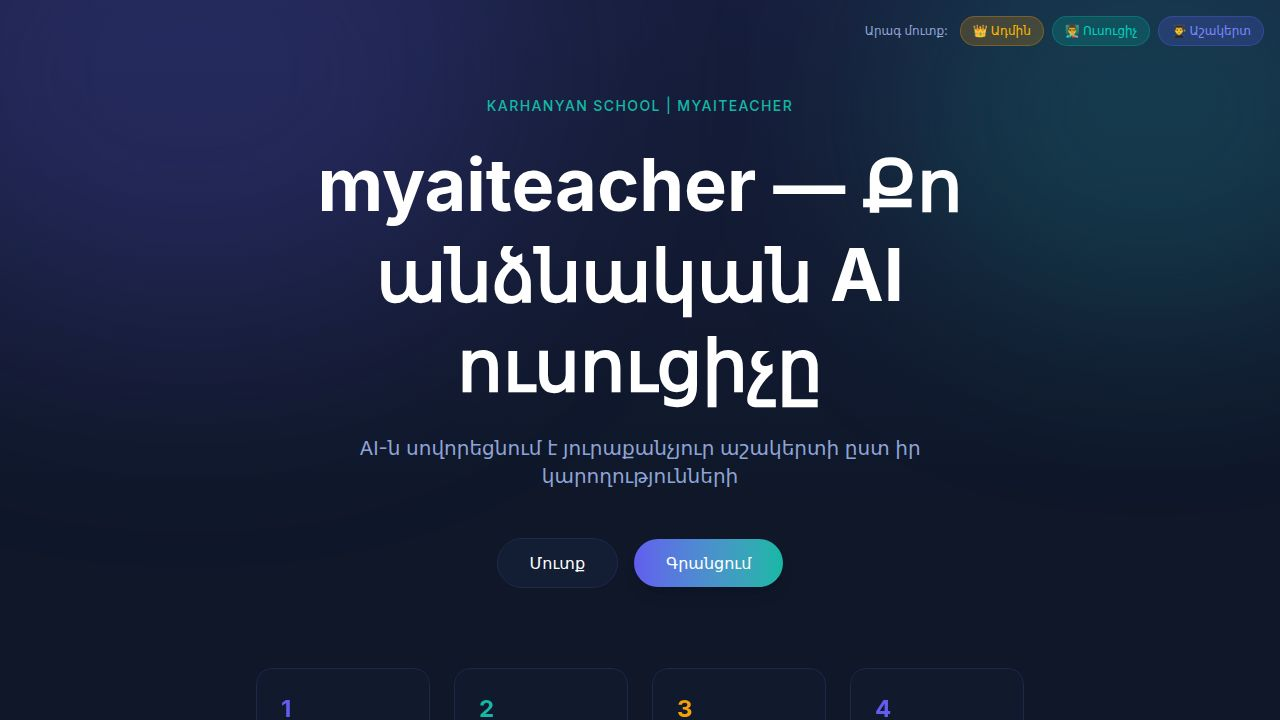
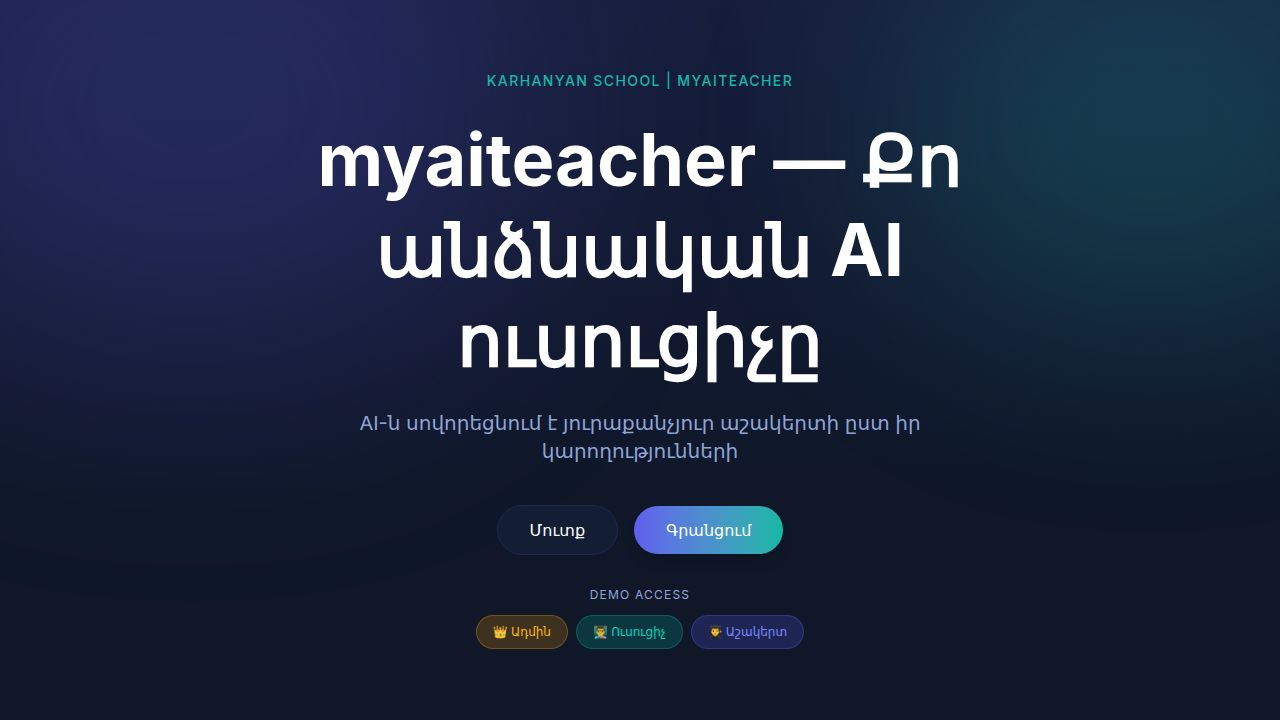
Simplify landing page by removing info cards and relocating demo access buttons
Removes the four-step information section and repositions quick-access login buttons to the "Demo Access" section below the main authentication buttons on the landing page.

Replit-Commit-Author: Agent
Replit-Commit-Session-Id: cca06395-2f13-4d1d-811c-1b9c3f3236e7
Replit-Commit-Checkpoint-Type: full_checkpoint
Replit-Commit-Event-Id: 6aef1b56-d962-4406-9b11-b502ad46bb04
Replit-Commit-Screenshot-Url: https://storage.googleapis.com/screenshot-production-us-central1/5a2ec19b-620a-4535-be1d-970a9317d162/cca06395-2f13-4d1d-811c-1b9c3f3236e7/2Ftedxd
Replit-Helium-Checkpoint-Created: true

diff --git a/artifacts/myaiteacher/src/pages/index.tsx b/artifacts/myaiteacher/src/pages/index.tsx
@@ -23,68 +23,67 @@ export default function Home() {
   };
 
   return (
-    <div className="min-h-[100dvh] w-full flex flex-col items-center pt-24 px-4 bg-background relative overflow-hidden">
-      {/* Quick login buttons top-right */}
-      <div className="absolute top-4 right-4 flex items-center gap-2 z-20">
-        <span className="text-xs text-muted-foreground mr-1">Արագ մուտք:</span>
-        <button onClick={() => quickLogin("admin", "admin123")} className="px-3 py-1.5 rounded-lg text-xs font-medium bg-amber-500/20 border border-amber-500/30 text-amber-400 hover:bg-amber-500/30 transition-colors">
-          👑 Ադմին
-        </button>
-        <button onClick={() => quickLogin("teacher1", "teacher123")} className="px-3 py-1.5 rounded-lg text-xs font-medium bg-teal-500/20 border border-teal-500/30 text-teal-400 hover:bg-teal-500/30 transition-colors">
-          👨🏫 Ուսուցիչ
-        </button>
-        <button onClick={() => quickLogin("student1", "student123")} className="px-3 py-1.5 rounded-lg text-xs font-medium bg-indigo-500/20 border border-indigo-500/30 text-indigo-400 hover:bg-indigo-500/30 transition-colors">
-          👨🎓 Աշակերտ
-        </button>
-      </div>
+    <div className="min-h-[100dvh] w-full flex flex-col items-center justify-center px-4 bg-background relative overflow-hidden">
 
       {/* Decorative background effects */}
       <div className="absolute top-0 left-0 w-full h-[500px] bg-gradient-to-b from-primary/10 to-transparent pointer-events-none" />
       <div className="absolute top-[-20%] left-[-10%] w-[50%] h-[500px] bg-primary/20 blur-[120px] rounded-full pointer-events-none" />
       <div className="absolute top-[-10%] right-[-10%] w-[40%] h-[400px] bg-secondary/20 blur-[100px] rounded-full pointer-events-none" />
 
-      <div className="z-10 text-center max-w-3xl">
-        <h2 className="text-secondary font-medium tracking-wide mb-6 uppercase tracking-widest text-sm">
+      <div className="z-10 text-center max-w-2xl w-full">
+        <h2 className="text-secondary font-medium tracking-widest mb-6 uppercase text-sm">
           Karhanyan School | myaiteacher
         </h2>
-        
+
         <h1 className="text-5xl md:text-7xl font-bold text-white mb-6 leading-tight">
           myaiteacher — Քո անձնական AI ուսուցիչը
         </h1>
-        
-        <p className="text-xl text-muted-foreground mb-12 max-w-2xl mx-auto">
+
+        <p className="text-xl text-muted-foreground mb-10 max-w-xl mx-auto">
           AI-ն սովորեցնում է յուրաքանչյուր աշակերտի ըստ իր կարողությունների
         </p>
 
-        <div className="flex items-center justify-center gap-4 mb-20">
-          <Link href="/login" className="px-8 py-3 rounded-full font-medium transition-all bg-card border border-card-border hover:bg-muted text-white">
+        {/* Primary auth buttons */}
+        <div className="flex items-center justify-center gap-4 mb-8">
+          <Link
+            href="/login"
+            className="px-8 py-3 rounded-full font-medium transition-all bg-card border border-card-border hover:bg-muted text-white"
+          >
             Մուտք
           </Link>
-          <Link href="/register" className="px-8 py-3 rounded-full font-medium transition-all bg-gradient-to-r from-primary to-secondary text-white shadow-lg hover:shadow-primary/25 hover:scale-105">
+          <Link
+            href="/register"
+            className="px-8 py-3 rounded-full font-medium transition-all bg-gradient-to-r from-primary to-secondary text-white shadow-lg hover:shadow-primary/25 hover:scale-105"
+          >
             Գրանցում
           </Link>
         </div>
 
-        <div className="grid grid-cols-1 md:grid-cols-4 gap-6 text-left">
-          <div className="p-6 rounded-2xl bg-card/40 backdrop-blur-md border border-card-border">
-            <div className="text-primary text-2xl font-bold mb-2">1</div>
-            <h3 className="font-semibold text-white mb-2">Դասեր</h3>
-            <p className="text-sm text-muted-foreground">Անհատականացված նյութեր քո մակարդակին համապատասխան</p>
-          </div>
-          <div className="p-6 rounded-2xl bg-card/40 backdrop-blur-md border border-card-border">
-            <div className="text-secondary text-2xl font-bold mb-2">2</div>
-            <h3 className="font-semibold text-white mb-2">AI Tutor</h3>
-            <p className="text-sm text-muted-foreground">Շուրջօրյա օգնական հարցերիդ պատասխանելու համար</p>
-          </div>
-          <div className="p-6 rounded-2xl bg-card/40 backdrop-blur-md border border-card-border">
-            <div className="text-accent text-2xl font-bold mb-2">3</div>
-            <h3 className="font-semibold text-white mb-2">Գիտելիքի ծառ</h3>
-            <p className="text-sm text-muted-foreground">Տեսանելի կառուցվածք քո իմացածի և սովորելու ենթակա նյութի</p>
-          </div>
-          <div className="p-6 rounded-2xl bg-card/40 backdrop-blur-md border border-card-border">
-            <div className="text-primary text-2xl font-bold mb-2">4</div>
-            <h3 className="font-semibold text-white mb-2">Առաջընթաց</h3>
-            <p className="text-sm text-muted-foreground">Հետևիր քո արդյունքներին և դարձիր ավելի լավը</p>
+        {/* Demo access */}
+        <div className="flex flex-col items-center gap-3">
+          <span className="text-xs text-muted-foreground uppercase tracking-widest">Demo Access</span>
+          <div className="flex items-center gap-2">
+            <button
+              onClick={() => quickLogin("admin", "admin123")}
+              disabled={loginMutation.isPending}
+              className="px-4 py-2 rounded-xl text-xs font-medium bg-amber-500/20 border border-amber-500/30 text-amber-400 hover:bg-amber-500/30 transition-colors disabled:opacity-50"
+            >
+              👑 Ադմին
+            </button>
+            <button
+              onClick={() => quickLogin("teacher1", "teacher123")}
+              disabled={loginMutation.isPending}
+              className="px-4 py-2 rounded-xl text-xs font-medium bg-teal-500/20 border border-teal-500/30 text-teal-400 hover:bg-teal-500/30 transition-colors disabled:opacity-50"
+            >
+              👨🏫 Ուսուցիչ
+            </button>
+            <button
+              onClick={() => quickLogin("student1", "student123")}
+              disabled={loginMutation.isPending}
+              className="px-4 py-2 rounded-xl text-xs font-medium bg-indigo-500/20 border border-indigo-500/30 text-indigo-400 hover:bg-indigo-500/30 transition-colors disabled:opacity-50"
+            >
+              👨🎓 Աշակերտ
+            </button>
           </div>
         </div>
       </div>
